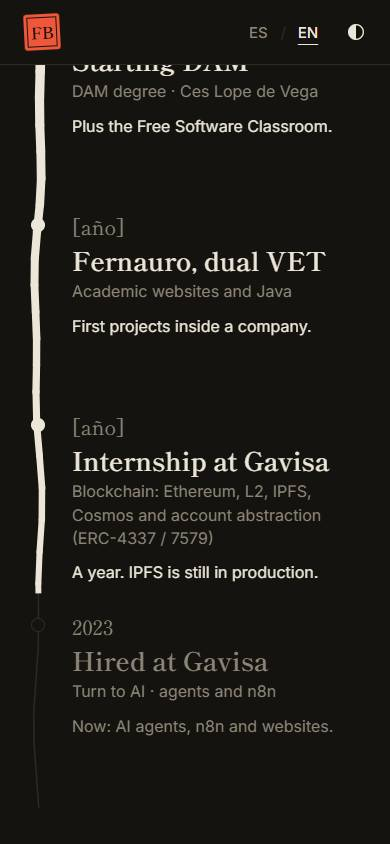
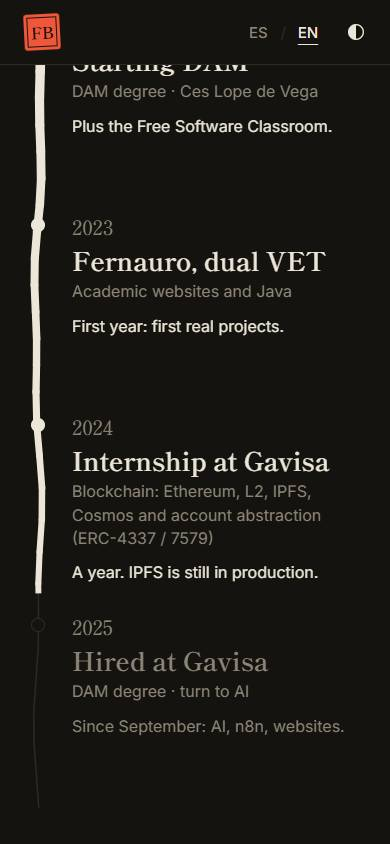
📝 docs(auto): 26 ficheros: 02-DOCS/wiki/ftd/capturas-contenido/en-1440-papel-contacto.jpg, 02-DOCS/wiki/ftd/capturas-contenido/en-1440-papel-trayectoria.jpg, 02-DOCS/wiki/ftd/capturas-contenido/en-1440-sumi-contacto.jpg y 23 más [skip ci]
Desde: Trayectoria con años reales y email de contacto

diff --git a/02-DOCS/wiki/ftd/contenido-revision.md b/02-DOCS/wiki/ftd/contenido-revision.md
@@ -28,13 +28,14 @@ verificados de la spec, las maquetas de `reference/` y las respuestas de Fran.
 | Tema | Decisión |
 | --- | --- |
 | Inglés | `/en/` con `hreflang` y selector ES / EN en la barra, como en las maquetas (C15). Deja sin efecto P10 |
-| Hitos | Se mantienen 4 (C1). El cuarto es «contrato en Gavisa (2023) y giro a la IA». El título de DAM **no** es de 2023 (la spec estaba mal): va como dato en el hito que le toque por fecha |
+| Hitos | Se mantienen 4 (C1). El cuarto es «contrato en Gavisa (2025) y giro a la IA», con el título de DAM (también 2025) como dato. El «2023» de la spec para título y contrato era un error |
 | LinkedIn | Confirmado el del README de DocChain |
 | La previa | Se describe lo que hace el código (lógica en funciones RPC de Supabase) |
 | Validación | Con las herramientas del proyecto (Chrome por CDP), no con Playwright (decisión previa del plan, §1.8) |
 | Foto | Fuera: el diseño no tiene hueco |
 | Email | bermel.f08@gmail.com (respuesta posterior de Fran) |
-| CV, años | CV: «lo subimos al final». Años: sin respuesta; quedan pendientes (abajo) |
+| Años | Inicio del DAM 2023; Fernauro 2023–24 (primer curso); prácticas en Gavisa 2024–25 (segundo curso, un año); título de DAM y contrato en Gavisa 2025 (contrato desde septiembre); giro a la IA 2025–26 (respuesta posterior de Fran) |
+| CV | «Lo subimos al final» |
 
 ## Textos por sección
 
@@ -112,18 +113,18 @@ Las demás tecnologías del repo que están en el stack cuentan para el «usado 
 ### 四 Trayectoria
 | Hito | Campo | ES | EN | Origen |
 | --- | --- | --- | --- | --- |
-| 1 | Año | **pendiente** | | — |
+| 1 | Año | 2023 | 2023 | Fran |
 | | Título · detalle | Inicio del DAM · CFGS DAM · Ces Lope de Vega | Starting DAM · DAM degree · Ces Lope de Vega | spec |
 | | Frase | Y el Aula de Software Libre de la FP. | Plus the Free Software Classroom. | **redactado** (spec) |
-| 2 | Año | **pendiente** | | — |
+| 2 | Año | 2023 | 2023 | Fran (2023–24: en escritorio el año se escribe en vertical y solo cabe uno; va el de inicio) |
 | | Título · detalle | FP dual en Fernauro · Webs académicas y Java | Fernauro, dual VET · Academic websites and Java | spec |
-| | Frase | Primeros proyectos en una empresa. | First projects inside a company. | **redactado**: «primeros» es una deducción del orden de los hitos; confírmalo |
-| 3 | Año | **pendiente** | | — |
+| | Frase | Primer curso: primeros proyectos. | First year: first real projects. | **redactado** («primer curso», de Fran; «Primer curso · webs académicas y Java» en el detalle partía la línea en móvil) |
+| 3 | Año | 2024 | 2024 | Fran (2024–25, segundo curso; «Segundo curso, un año.» partía la línea en móvil) |
 | | Título · detalle | Prácticas en Gavisa · Blockchain: Ethereum, L2, IPFS, Cosmos y account abstraction (ERC-4337 / 7579) | Internship at Gavisa · … and account abstraction (ERC-4337 / 7579) | spec |
 | | Frase | Un año. IPFS sigue en producción. | A year. IPFS is still in production. | **redactado** (spec) |
-| 4 | Año | 2023 | 2023 | spec, Fran |
-| | Título · detalle | Contrato en Gavisa · Giro a la IA · agentes y n8n | Hired at Gavisa · Turn to AI · agents and n8n | spec, Fran |
-| | Frase | Hoy: agentes de IA, n8n y webs. | Now: AI agents, n8n and websites. | **redactado** (spec) |
+| 4 | Año | 2025 | 2025 | Fran (título y contrato; el giro a la IA es 2025–26) |
+| | Título · detalle | Contrato en Gavisa · Título de DAM · giro a la IA | Hired at Gavisa · DAM degree · turn to AI | spec, Fran |
+| | Frase | Desde septiembre: IA, n8n y webs. | Since September: AI, n8n, websites. | **redactado** (spec, Fran; «agentes de IA» partía la línea en móvil) |
 
 Terminología: «account abstraction» en los dos idiomas, sin traducir, como ya estaba.
 
@@ -156,7 +157,7 @@ Grupos en inglés: Frontend · Web3 · Backend & tools · AI & automation (**red
 | --- | --- | --- | --- |
 | Titular | ¿Hablamos? | Let's talk | ya estaba; EN **redactado** («Shall we talk?» empujaba el sello 6 px fuera de la pantalla a 1440) |
 | Texto breve | — | — | el diseño no tiene hueco para él (d-13, m-12) |
-| Email | **pendiente** | | — |
+| Email | bermel.f08@gmail.com | | Fran |
 | GitHub | github.com/FRANCISCO-BERMEJO-MELERO | | spec |
 | LinkedIn | linkedin.com/in/francisco-bermejo-melero-250669302/ | | repo:DocChain/README.md, confirmado por Fran |
 | CV | **pendiente** (enlaza aún al PDF de prueba, marcado como provisional) | | — |
@@ -201,17 +202,15 @@ Sacado de los repos, por si se abre hueco (fase 7, detalles de cada proyecto):
 | Qué | Dónde se cambia | Nota |
 | --- | --- | --- |
 | CV en PDF | `web/public/cv/` y `contact.cv` en `site.ts` | El de ahora es de prueba. Fran lo sube al final |
-| Años de los hitos 1, 2 y 3 | `web/src/data/journey.ts` | Inicio del DAM, Fernauro, prácticas en Gavisa |
-| Año del título de DAM | `journey.ts`, en el detalle del hito que le toque | No es 2023 |
 | Capturas de DocChain, FinTrack y Web3 Blog (y su pie) | `web/src/assets/projects/` + `projects.ts` | Los repos no las traen; no se han inventado |
 | `og:image` | `web/public/og-image.png` | No existe; prevista en la fase 8 |
 | URL absolutas (canonical, `hreflang`, `og:url`) | `astro.config.mjs` (`site`) | Sin dominio son relativas; Google pide absolutas. Fase 8 |
 
-Los marcadores que quedan (`pnpm content:pending`) son exactamente estos: 3 años, CV,
+Los marcadores que quedan (`pnpm content:pending`) son exactamente estos: CV,
 3 capturas y su pie (en ES y EN). `STRICT_CONTENT=1 pnpm build` fallará hasta que lleguen.
 
 ## Incoherencias encontradas
-- **Spec · título de DAM en 2023.** Era un error de la spec (Fran). El año queda pendiente.
+- **Spec · título de DAM y contrato en 2023.** Era un error de la spec (Fran): los dos son de 2025. Corregido en la web (ES y EN) y en la spec. Sobre mí, kaizen, meta description y JSON-LD no llevan años.
 - **Spec · La previa «con la API dentro de la propia app».** El código no tiene rutas API: la lógica
   está en funciones RPC de Postgres en Supabase. Se describe el código.
 - **Spec · «cinco hitos ya fijados en el diseño».** El diseño tiene 4 (C1). Se mantienen 4.
@@ -255,7 +254,7 @@ Los marcadores que quedan (`pnpm content:pending`) son exactamente estos: 3 año
 ## Validación (22 oct, sobre el build de esta rama)
 | # (spec) | Comprobación | Resultado |
 | --- | --- | --- |
-| 1 | Cero marcadores | `pnpm content:pending`: quedan solo los de «Pendiente» (3 años, email, CV, 3 capturas y su pie). En el HTML de `/` y `/en/`: sin `href="#"`, `lorem`, `TODO` ni `XXXX` |
+| 1 | Cero marcadores | `pnpm content:pending`: quedan solo los de «Pendiente» (CV, 3 capturas y su pie). En el HTML de `/` y `/en/`: sin `href="#"`, `lorem`, `TODO` ni `XXXX` |
 | 2 | Build | `pnpm build`: `astro check` 0 errores, 0 avisos, 0 sugerencias; 2 páginas (`/`, `/en/`); sin avisos nuevos |
 | 3 | Enlaces externos | 10 responden 200: los 5 repos, el perfil de GitHub, las 2 demos, KanjiVG y la licencia CC BY-SA 3.0. LinkedIn: 999 (bloqueo de bots; ver incoherencias) |
 | 4 | Encaje | `pnpm qa:content` ✓: 1440, 390 y 320 px × papel y sumi × ES y EN, con y sin reduced motion. Sin desbordes, sin textos que se crucen y el nombre del hero en 2 líneas a 320 px. 72 capturas en `capturas-contenido/` (`<idioma>-<ancho>-<modo>-<sección>.jpg`). Se comprobó que la regla de solapes detecta el fallo real que hubo (el kaizen largo sobre los datos rápidos) |
@@ -272,7 +271,7 @@ Los marcadores que quedan (`pnpm content:pending`) son exactamente estos: 3 año
 build anterior al último cambio (titular EN de Contacto y espacio del pie); `qa:contact`,
 `qa:overflow` y `qa:content` se repitieron después.
 
-**Veredicto: no cerrada.** Quedan abiertos: los pendientes de Fran (email, CV, años, capturas), la
+**Veredicto: no cerrada.** Quedan abiertos: los pendientes de Fran (CV, capturas), la
 decisión sobre la fila de etiquetas de Chainview y los fotogramas de `qa:hero` / `qa:perf` (abierto
 desde la fase 6). Todo lo demás de la spec tiene evidencia arriba.
 

diff --git a/02-DOCS/wiki/ftd/contenido-spec.md b/02-DOCS/wiki/ftd/contenido-spec.md
@@ -17,13 +17,13 @@ Regla de oro: **no inventes nada.** Si un dato no está en ninguna de estas fuen
 - Nombre en la web: **Francisco Bermejo**. GitHub: github.com/FRANCISCO-BERMEJO-MELERO
 - Basado en Córdoba (España). Datos rápidos del hero/sobre mí: Córdoba · Web3 + IA · Gavisa.
 - Trabaja en **Gavisa TIC** como desarrollador full-stack y Web3; hoy su día a día son agentes de IA y automatizaciones (n8n) y webs para clientes.
-- Formación: **CFGS DAM** en el Ces Lope de Vega (título en 2023). Participó en el Aula de Software Libre de la FP de Córdoba.
+- Formación: **CFGS DAM** en el Ces Lope de Vega (título en 2025; la versión anterior decía 2023, un error corregido por Fran). Participó en el Aula de Software Libre de la FP de Córdoba.
 - **Trayectoria, cinco hitos en este orden** (ya fijado en el diseño):
-  1. Inicio del DAM en el Ces Lope de Vega. *Año de inicio: pendiente.*
-  2. FP dual en **Fernauro**: webs académicas, Java.
-  3. Prácticas en **Gavisa** (un año) aprendiendo blockchain: Ethereum (incluido el Yellow Paper), L2/rollups, IPFS (que sigue en producción), Cosmos, account abstraction (ERC-4337 / 7579) y una dApp de piedra, papel o tijera.
-  4. **2023**: título de DAM y contrato en Gavisa.
-  5. **Giro a la IA**: agentes de IA, automatizaciones con n8n, webs para clientes.
+  1. Inicio del DAM en el Ces Lope de Vega. **2023**.
+  2. **2023–24** (primer curso): FP dual en **Fernauro**: webs académicas, Java.
+  3. **2024–25** (segundo curso): prácticas en **Gavisa** (un año) aprendiendo blockchain: Ethereum (incluido el Yellow Paper), L2/rollups, IPFS (que sigue en producción), Cosmos, account abstraction (ERC-4337 / 7579) y una dApp de piedra, papel o tijera.
+  4. **2025**: título de DAM y contrato en Gavisa (desde septiembre).
+  5. **2025–26 · giro a la IA**: agentes de IA, automatizaciones con n8n, webs para clientes.
 - **Stack** (cerrado, cuatro grupos, no añadas ni quites):
   - Frontend: TypeScript, React, Next.js, Astro, Tailwind
   - Web3: Solidity, Wagmi/Viem, Foundry, Hardhat, IPFS, Cosmos SDK
